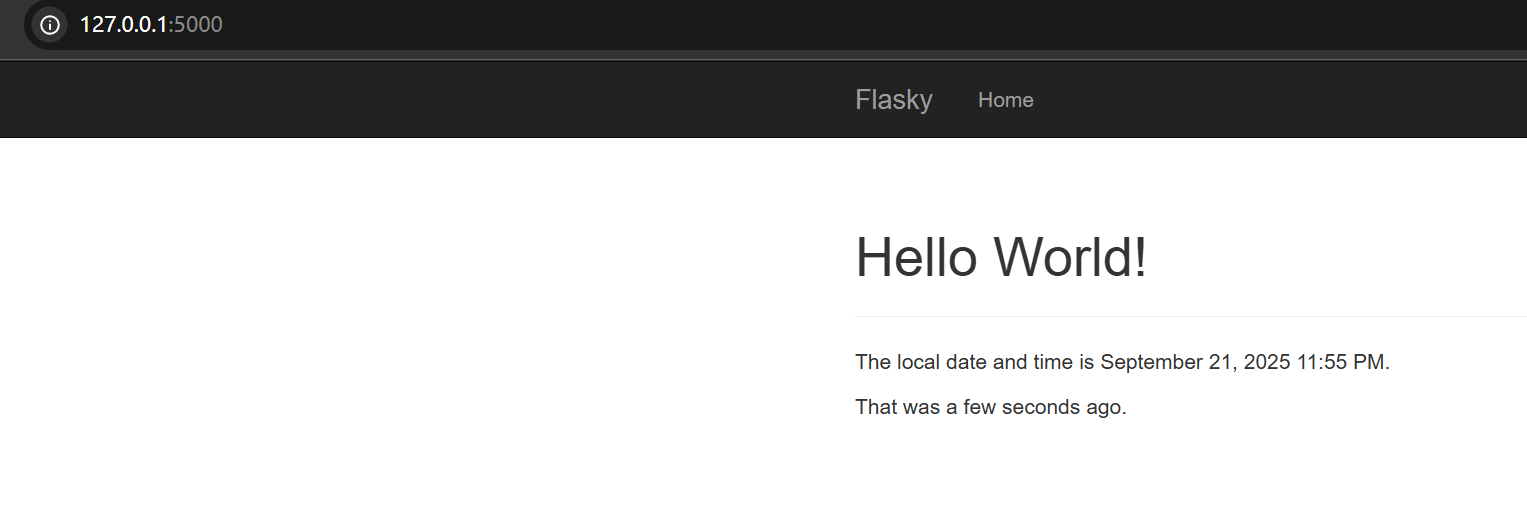
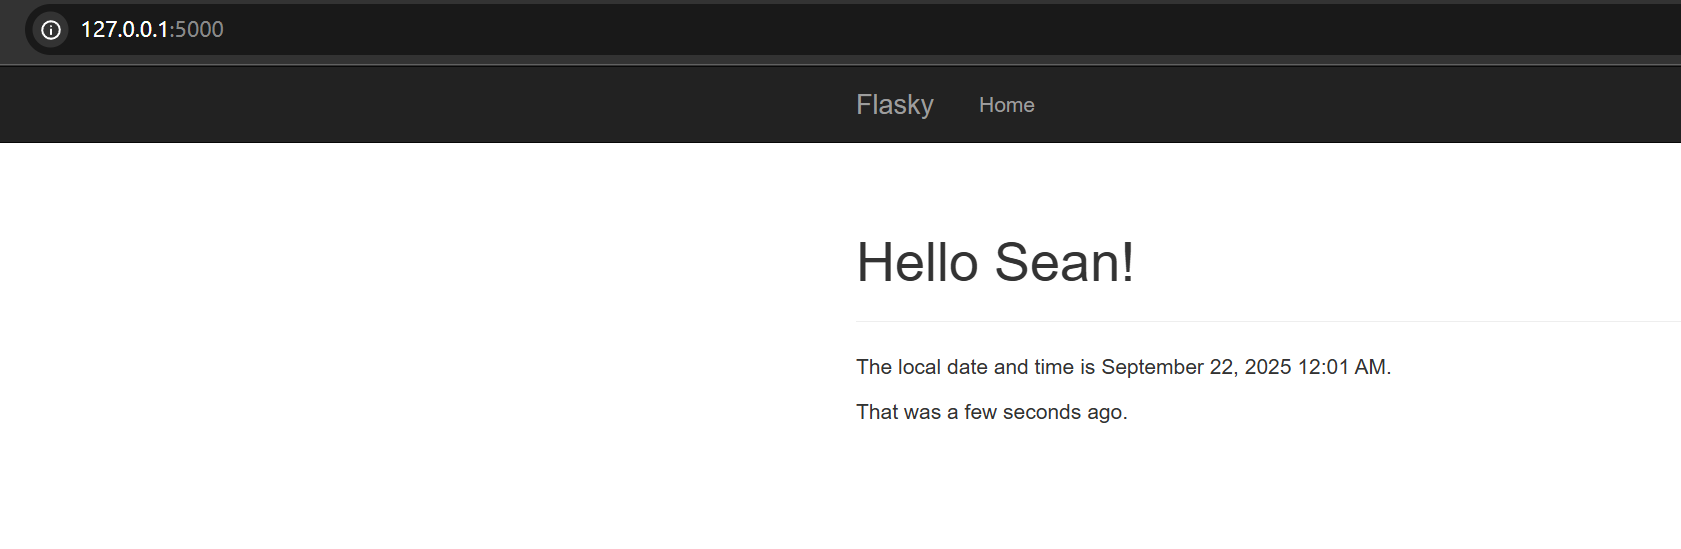
[act] Modify examples in chapter 3

diff --git a/chapter3/templates/index.html b/chapter3/templates/index.html
@@ -4,7 +4,7 @@
 
 {% block page_content %}
 <div class="page-header">
-    <h1>Hello World!</h1>
+    <h1>Hello Sean!</h1>
 </div>
 <p>The local date and time is {{ moment(current_time).format('LLL') }}.</p>
 <p>That was {{ moment(current_time).fromNow(refresh=True) }}.</p>
